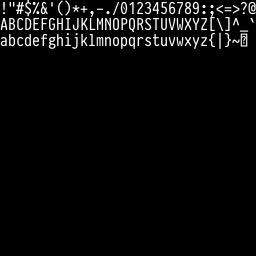
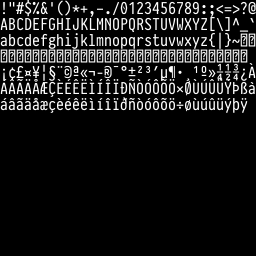
More characters

Changed region(s): [[0.0, 0.1875, 1.0, 0.4375], [0.9688, 0.125, 1.0, 0.1875]]

diff --git a/main.go b/main.go
@@ -344,8 +344,9 @@ func main() {
 
 	var gi int
 	var x, y int
-	glyphs := make([]Glyph, 127-32+1)
-	for r := rune(32); r <= 127; r++ {
+	var gstart, gend rune = 32, 255
+	glyphs := make([]Glyph, gend-gstart+1)
+	for r := gstart; r <= gend; r++ {
 		glyphs[gi].X = x
 		glyphs[gi].Y = y - gh
 		glyphs[gi].Width = gw
@@ -668,10 +669,14 @@ func main() {
 				x: 2, y: 2,
 				str: fmt.Sprintf("FPS: %d (%dms) wave timing: %dms", fps, fts, wts),
 			},
+			{
+				x: 2, y: 20,
+				str: "åäöÅÄÖ€$£#\"\\//[]{}",
+			},
 		}
 		for i := 0; i < 20; i++ {
 			messages = append(messages, message{
-				x: 2, y: 20 + (i * 18),
+				x: 2, y: 38 + (i * 18),
 				str: "Lorem ipsum dolor sit amet, consectetur adipiscing elit. Praesent commodo aliquam erat, quis blandit nisi interdum mollis.",
 			})
 		}
